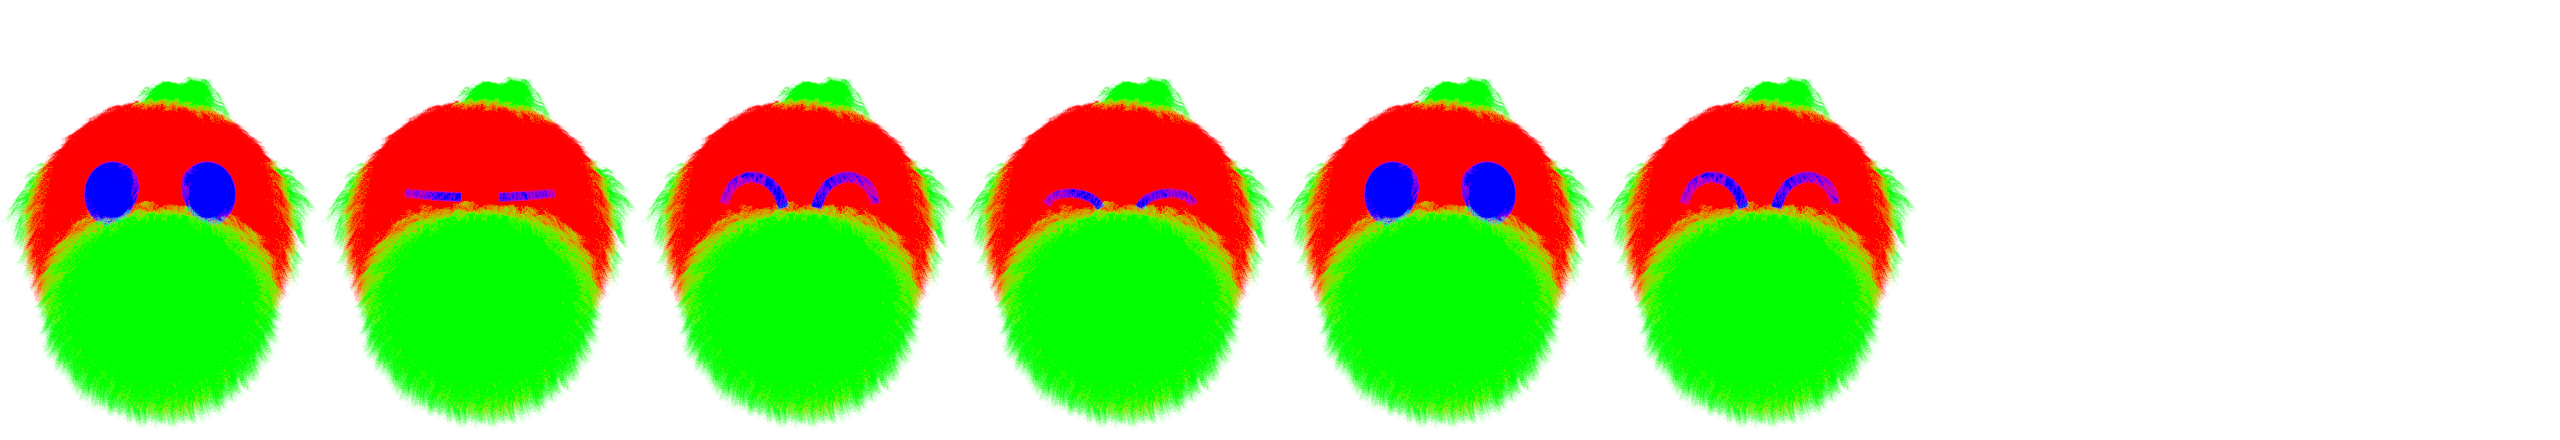
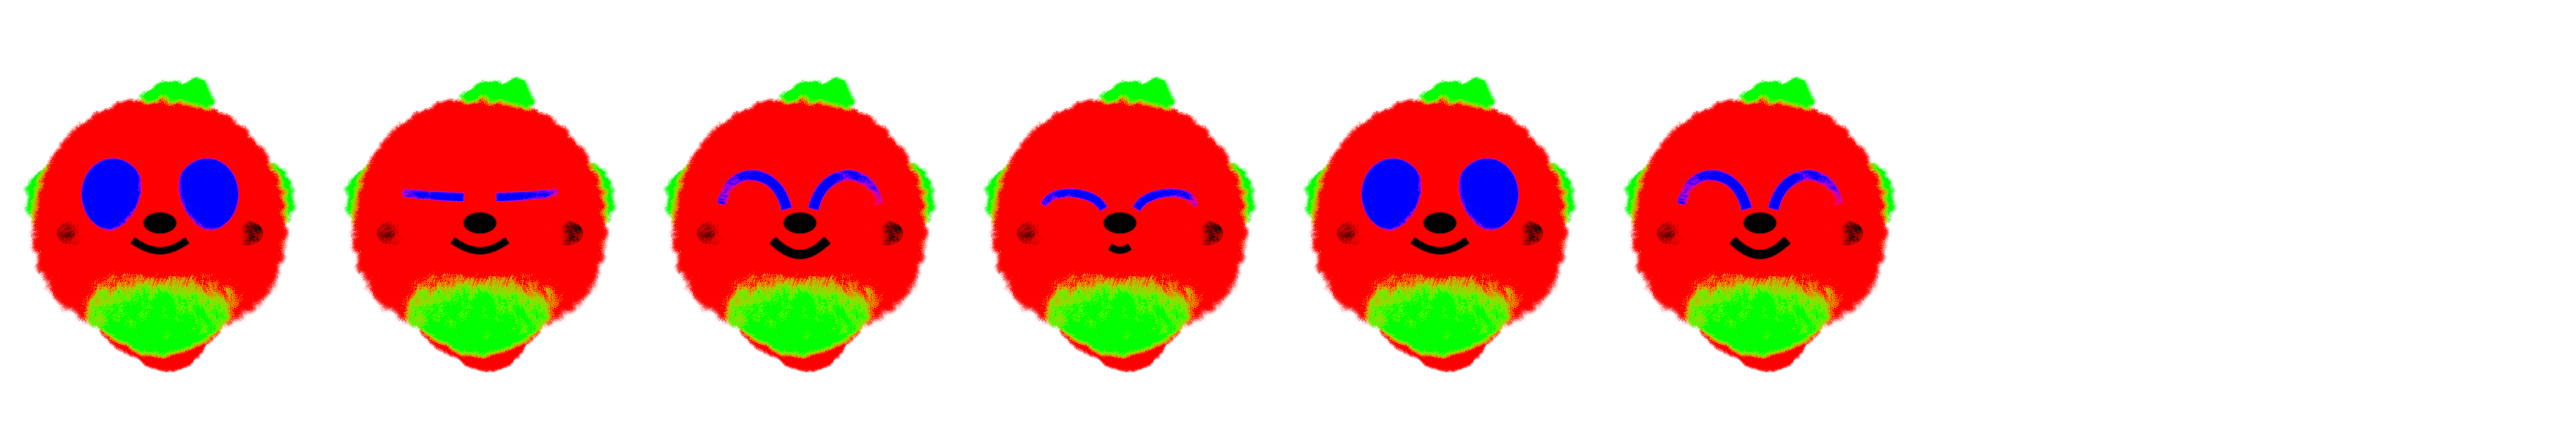
Render Craepets art: Glimmr (64 samples)
Claude-Session: https://claude.ai/code/session_01WzeCJkuLWnKTQ83ve9KbF9

diff --git a/games/craepets/art/manifest.js b/games/craepets/art/manifest.js
@@ -392,6 +392,8 @@ window.CPArt = {
   "glimmr": {
    "file": "glimmr.webp",
    "idfile": "glimmr-id.webp",
+   "ref": 0.822,
+   "src": "25350b770f3e",
    "tile": [
     320,
     440
